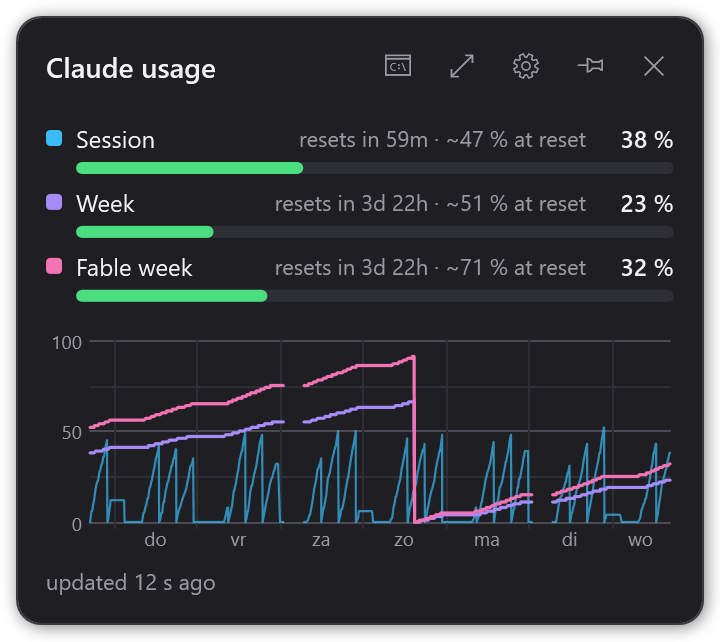
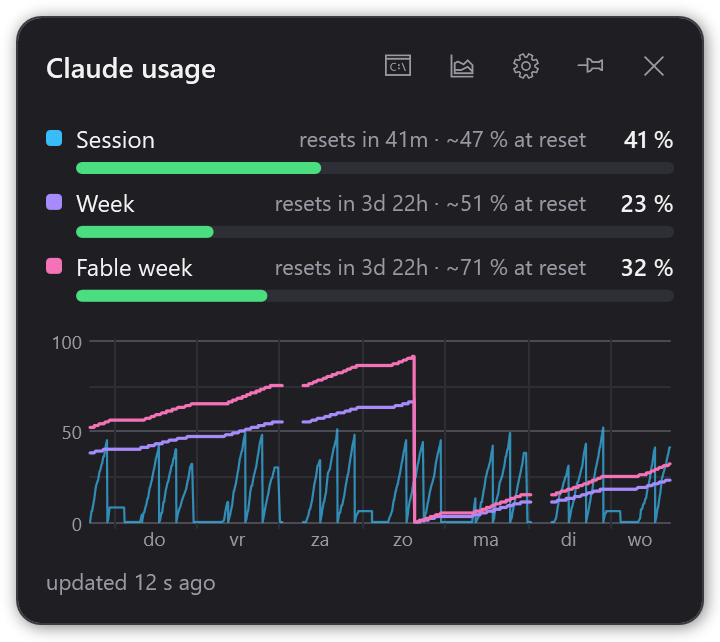
Update README screenshot and describe the settings window
The screenshot now shows the chart icon on the history button. The README
calls it the chart button, lists Settings… in the tray menu, and describes
the settings window.

diff --git a/README.md b/README.md
@@ -6,8 +6,9 @@ A small Windows tray widget that shows your Claude plan usage (session, week, an
 
 - Borderless, draggable window; closing it hides it to the tray.
 - Optional "stay on top"; window position and that setting are remembered.
-- A 7-day chart in the widget. The expand button opens a resizable history window over everything stored (up to 90 days): 1D / 7D / 30D / All presets, zoom (buttons, mouse wheel at the cursor, + / −), scrolling (scroll bar, drag, Shift+wheel, arrow keys), a "Now" button that follows new readings, and a hover read-out of the values at any point.
-- Tray menu: current stats, Show UI, Claude projects, Refresh now, Open data folder, Start with Windows, Quit.
+- A 7-day chart in the widget. The chart button opens a resizable history window over everything stored (up to 90 days): 1D / 7D / 30D / All presets, zoom (buttons, mouse wheel at the cursor, + / −), scrolling (scroll bar, drag, Shift+wheel, arrow keys), a "Now" button that follows new readings, and a hover read-out of the values at any point.
+- Tray menu: current stats, Show UI, Claude projects, Refresh now, Open data folder, Start with Windows, Settings…, Quit.
+- Settings (gear button or tray menu): Claude CLI path, projects folder, stay on top, and Start with Windows. Blank paths use the defaults; a path that doesn't exist is refused.
 - Claude projects: at startup the app scans `projectsRoot` in `settings.json` (default `D:\`) in the background for folders with a `CLAUDE.md`, skipping hidden/system folders, junctions, `.git`, `.claude` (worktrees), `node_modules`, `bin`, `obj` and `packages`. The list is in the tray menu and behind the prompt button in the widget's header; each entry shows the folder name (full path as tooltip) and opens a PowerShell window there running `claude` (`powershell.exe -NoExit -Command claude`). "Rescan" at the bottom of either menu scans again (e.g. after `/init` in a new folder).
 - Start with Windows adds `"<path>\ClaudeUsage.exe" --hidden` to `HKCU\Software\Microsoft\Windows\CurrentVersion\Run`, so it starts in the tray without opening the window. If the exe moves, the menu item shows unchecked; tick it again to update the entry.
 
